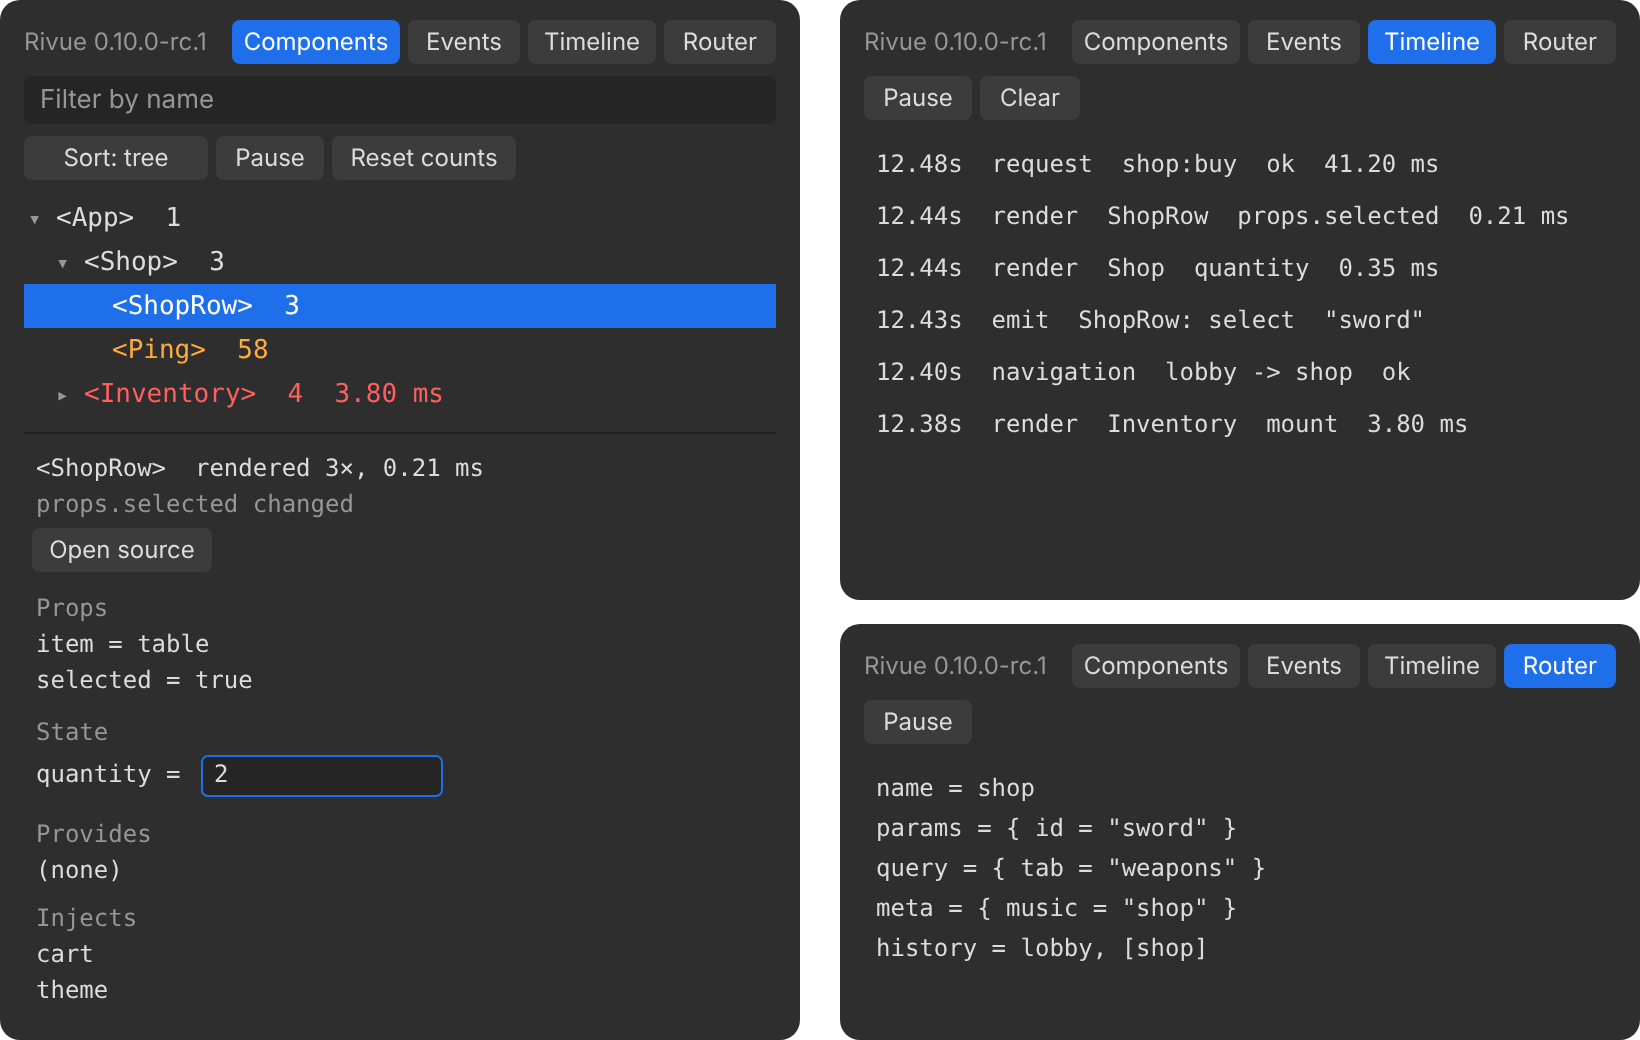
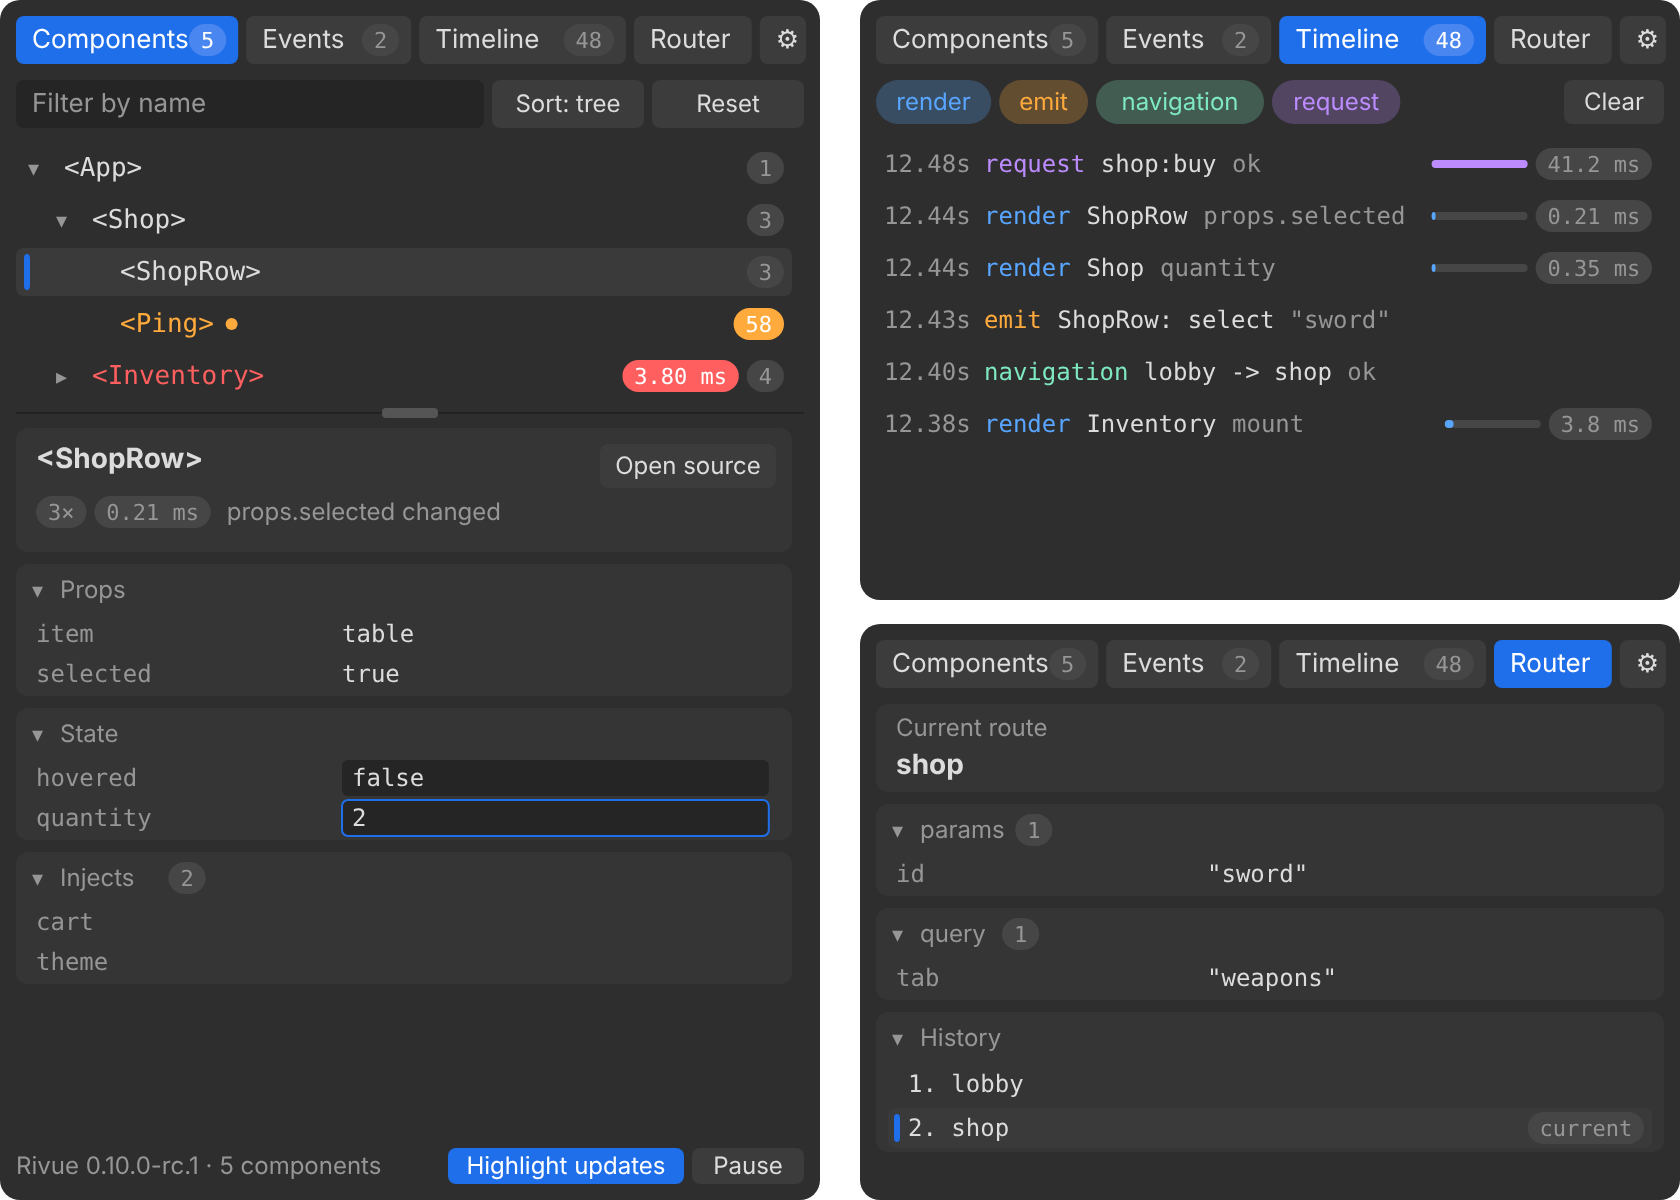
docs(devtools): new window image and the redesigned features

diff --git a/docs/DEVTOOLS.md b/docs/DEVTOOLS.md
@@ -23,42 +23,51 @@ app.config.devtools = game:GetService("RunService"):IsStudio()
 
 Then press Play and click **Rivue → DevTools** in the Plugins toolbar.
 
-Components show up as a tree with their render counts. Click an arrow to fold a branch away.
-Hover a row and the component is outlined on the game screen. Row colours:
+Components show up as a tree, each with its render count on the right. Click an arrow to fold a
+branch away. Hover a row and the component is outlined on the game screen. What the rows show:
 
-- **orange**: rendered again since the last refresh. One that keeps flashing re-renders too
-  often ([Guide 15](guide/15-performance-in-depth.md)).
-- **red**: the last render took 2 ms or more.
+- **orange, with a dot**: rendered again since the last refresh. One that keeps flashing
+  re-renders too often ([Guide 15](guide/15-performance-in-depth.md)).
+- **red, with its time**: the last render took longer than the slow threshold (2 ms unless you
+  change it in settings).
 
-Click a row and it's selected in the Explorer. Below the list you get:
+Click a row and it's selected in the Explorer. The panel below the tree shows:
 
-- how long its last render took, and what caused it: `count changed`, `props.title changed`,
-  `first render` or `parent update` (new slots or `forceUpdate`). A computed or a store shows as
-  `a computed or outside state`.
+- its render count, how long its last render took, and what caused it: `count changed`,
+  `props.title changed`, `first render` or `parent update` (new slots or `forceUpdate`). A
+  computed or a store shows as `a computed or outside state`.
 - **Open source**, which opens the script that defined the component at the `defineComponent`
   line.
-- its props, and its state. Numbers, strings and booleans in state are editable: type a new
-  value, press Enter, and the game updates.
-- the keys it provides, and the keys it injects.
+- cards for its props, its state, and the keys it provides and injects. Click a card's title to
+  fold it. Numbers, strings and booleans in state are editable: type a new value, press Enter,
+  and the game updates.
+
+Drag the line between the tree and the details to give either more room.
 
 Type in the filter box to show only components whose name matches. Their parents stay in the
-list, so you can still see where each match sits.
+list, so you can still see where each match sits. Next to it, **Sort** switches between the tree,
+most renders and slowest first, and **Reset counts** counts from zero, so you can do one thing in
+the game and see what it re-rendered.
 
-The buttons:
+The tabs show how many components, events and timeline entries there are. Along the bottom:
 
-- **Sort**: tree, most renders, or slowest first.
-- **Pause**: freeze the list while the UI keeps changing.
-- **Reset counts**: count from zero, do one thing in the game, and see what it re-rendered.
+- **Highlight updates** flashes an outline around every component that re-renders, on the game
+  screen, like Vue DevTools' option of the same name.
+- **Pause** freezes the lists while the UI keeps changing.
 
 The **Events** tab lists every `emit` as it happens, newest first, with its arguments. Click one
 to select the component that sent it.
 
 The **Timeline** tab puts renders, emits, router navigations and RivueRemote requests in one list,
-newest first, with the time and how long each took. It's the place to look when one click causes
-more work than you expected.
+newest first. Each entry has its time, and a bar and a duration when it has one, so the slow ones
+stand out. The chips at the top hide or show each kind. Click a render or an emit to open its
+component. It's the place to look when one click causes more work than you expected.
 
-The **Router** tab shows RivueRouter's current route: its name, params, query and meta, and the
-history, with the current entry in brackets.
+The **Router** tab shows RivueRouter's current route, its params, query and meta, and the
+history, with the current entry marked.
+
+The **⚙** tab sets the slow-render threshold and how many timeline entries to keep. Settings and
+Highlight updates are saved with the plugin.
 
 The window follows Studio's light or dark theme.
 

diff --git a/.github/release-notes/pre-v2.60.md b/.github/release-notes/pre-v2.60.md
@@ -36,12 +36,16 @@ Pre-release.
 
 ## RivueDevTools
 
-- A Timeline tab and a Router tab.
-- The details panel lists what a component provides and injects.
+- A new look: tabs with counts, render and time pills on each row, details as cards, and a split you can drag.
+- Highlight updates flashes an outline around components as they re-render.
+- A Timeline tab with filters per kind and duration bars, and a Router tab with the route's params, query, meta and history.
+- The details list what a component provides and injects.
 - The filter keeps the parents of matching components.
+- Settings for the slow-render threshold and timeline length, saved with the plugin.
 
 ## Fixed
 
+- RivueUI: a `class` on slot content was looked up in the styles of the component it was passed to, such as `Row` or `Column`, instead of the component that wrote it.
 - RivueUI: a `VirtualList` that shrank while scrolled down rendered nothing until the engine clamped its scroll.
 
 ## Install
